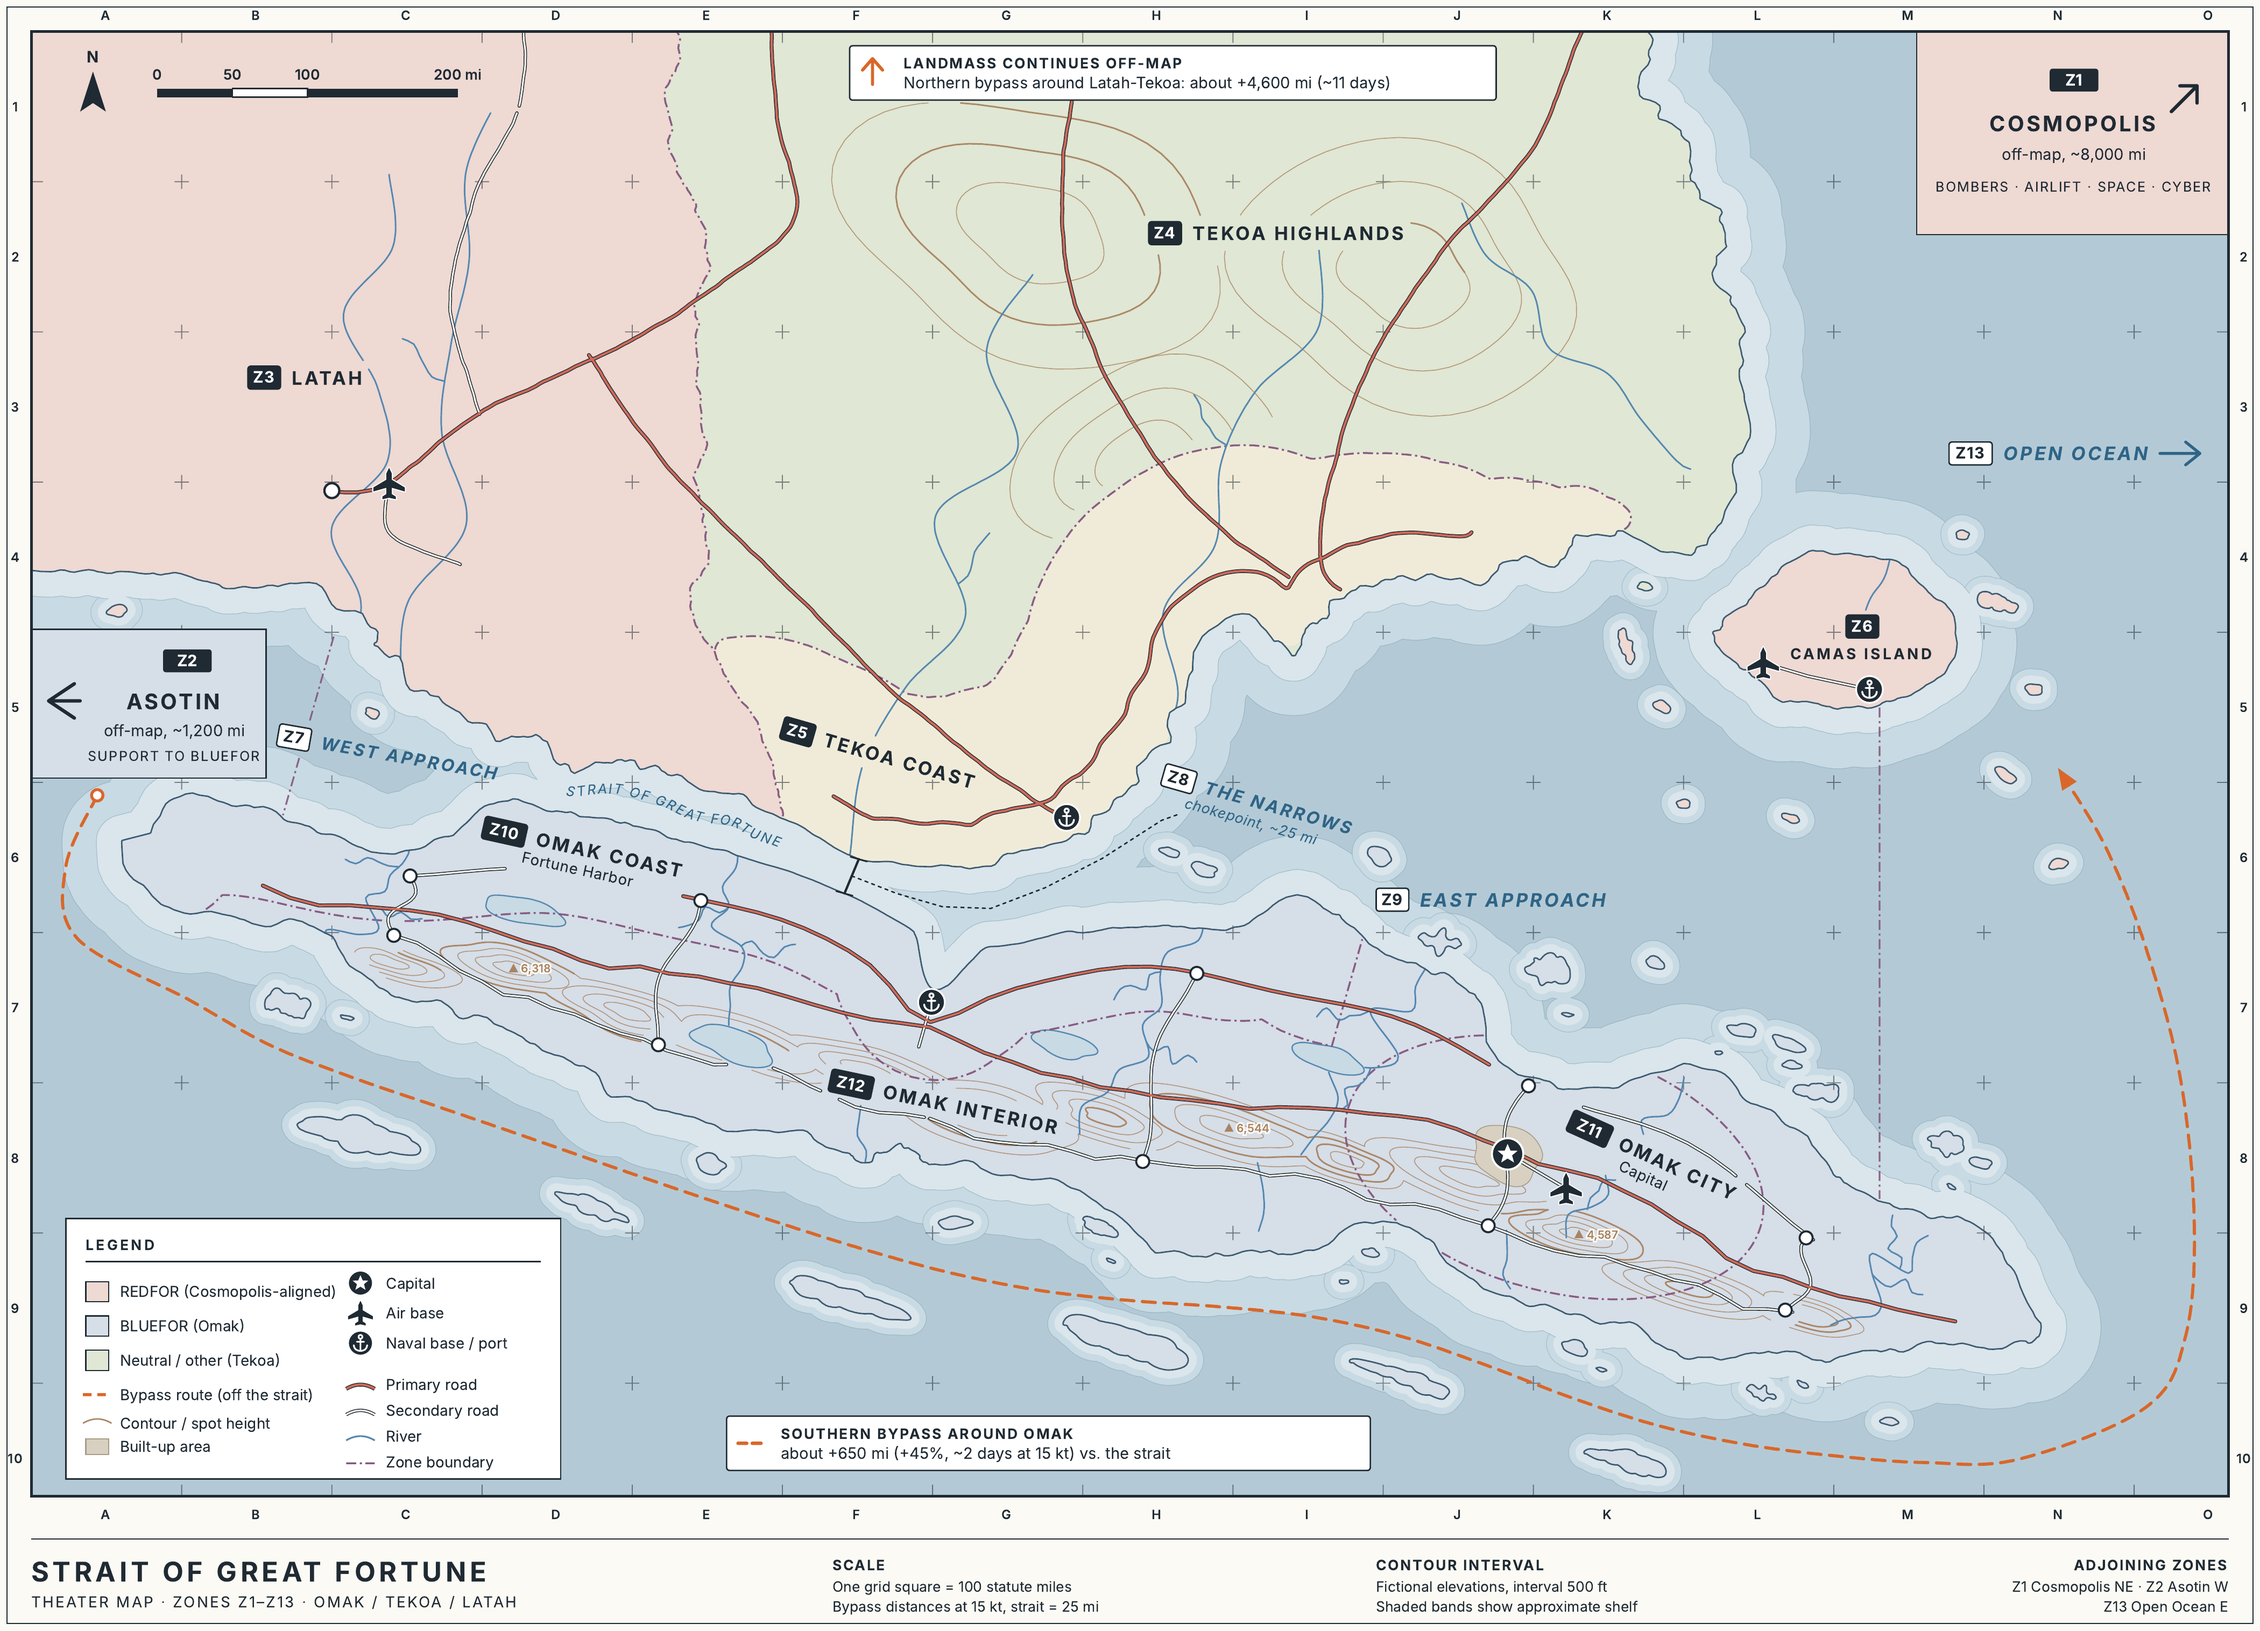
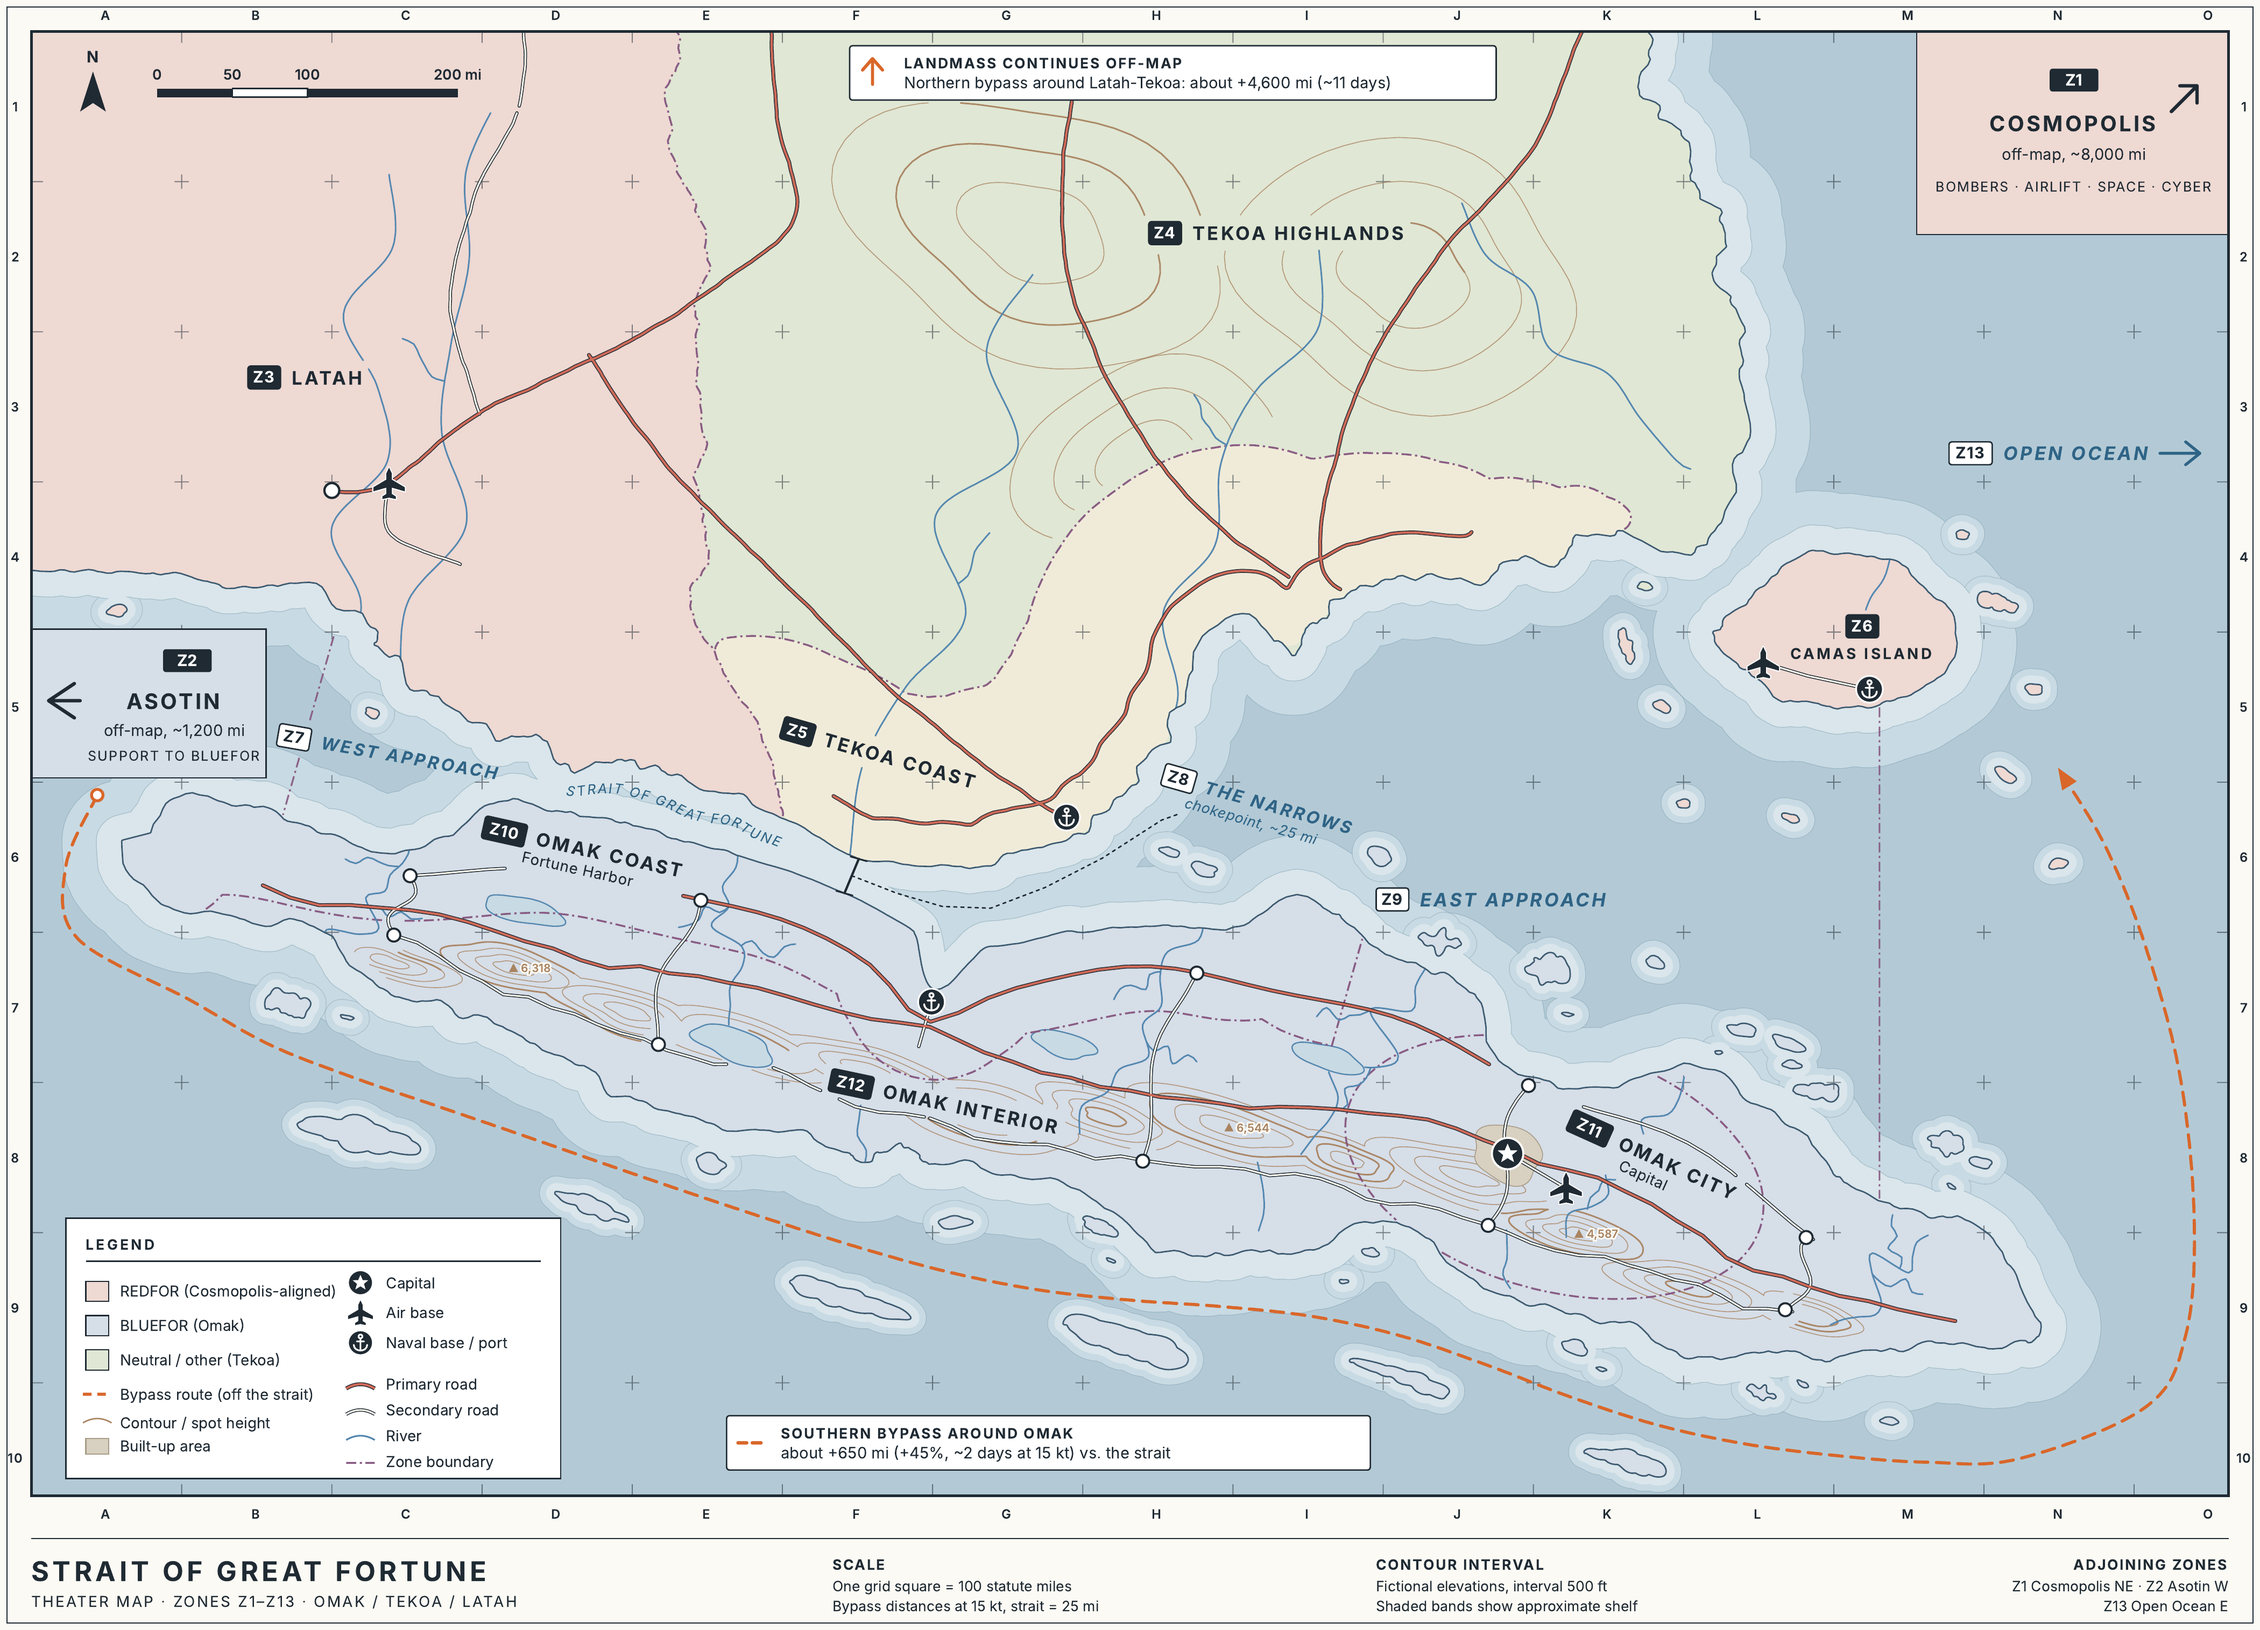
Map: print as 3 x 3 letter tiles (31.5 x 22.7 in), full sheet at the same scale
Keep the Scenario Brief's map image at 4200 px wide.

diff --git a/map/source/build_pdfs.py b/map/source/build_pdfs.py
@@ -10,7 +10,8 @@ SVG_W, SVG_H = 1580, 1140
 ASPECT = SVG_W / SVG_H
 
 # ---------------------------------------------------------------- full map, one page
-FULL_W_IN = 21.0
+N = 3                                        # letter tiles per side (see below)
+FULL_W_IN = N * 10.5                         # same scale as the assembled tiles
 FULL_H_IN = FULL_W_IN / ASPECT
 full_html = f"""<!doctype html><html><head><meta charset="utf-8"><style>
 @page {{ size: {FULL_W_IN}in {FULL_H_IN:.4f}in; margin: 0 }}
@@ -18,19 +19,30 @@ html, body {{ margin: 0; padding: 0; }}
 svg {{ display: block; width: {FULL_W_IN}in; height: {FULL_H_IN:.4f}in; }}
 </style></head><body>{svg}</body></html>"""
 
-# ---------------------------------------------------------------- 2 x 2 letter tiles
+# ---------------------------------------------------------------- N x N letter tiles
 # Each tile is laid out landscape, then turned onto a portrait page (top of the map
 # at the left edge), so the tiles print in the same orientation as the handouts.
 PW, PH = 1056.0, 816.0                       # the landscape tile, CSS px (96 dpi)
 WIN_W = 1008.0                               # 10.5 in trim window per tile (0.25 in side margins)
-S = WIN_W / (SVG_W / 2)                      # svg px -> css px
-WIN_H = (SVG_H / 2) * S                      # about 7.10 in
+S = WIN_W / (SVG_W / N)                      # svg px -> css px
+WIN_H = (SVG_H / N) * S                      # about 7.10 in
 X0 = (PW - WIN_W) / 2
 Y0 = (PH - WIN_H) / 2
+ASSEMBLED = f"{N * WIN_W / 96:.1f} x {N * WIN_H / 96:.1f} in"
 
-names = {(0, 0): "TILE 1  (top-left)", (0, 1): "TILE 2  (top-right)", (1, 0): "TILE 3  (bottom-left)", (1, 1): "TILE 4  (bottom-right)"}
-join = {(0, 0): "joins 2 on the right, 3 below", (0, 1): "joins 1 on the left, 4 below",
-        (1, 0): "joins 4 on the right, 1 above", (1, 1): "joins 3 on the left, 2 above"}
+ROW = ["top", "middle", "bottom"] if N == 3 else ["top", "bottom"]
+COL = ["left", "centre", "right"] if N == 3 else ["left", "right"]
+def num(r, c): return r * N + c + 1
+names, join = {}, {}
+for r in range(N):
+    for c in range(N):
+        pos = "centre" if (ROW[r], COL[c]) == ("middle", "centre") else f"{ROW[r]}-{COL[c]}"
+        names[(r, c)] = f"TILE {num(r, c)}  ({pos})"
+        nb = [f"{num(r, c - 1)} on the left"] if c > 0 else []
+        nb += [f"{num(r, c + 1)} on the right"] if c < N - 1 else []
+        nb += [f"{num(r - 1, c)} above"] if r > 0 else []
+        nb += [f"{num(r + 1, c)} below"] if r < N - 1 else []
+        join[(r, c)] = "joins " + ", ".join(nb)
 
 def marks():
     m = []
@@ -58,8 +70,8 @@ for (r, c), nm in names.items():
     <g stroke="#000" stroke-width="0.8" fill="none">{marks()}</g>
     <g font-family="Inter, Arial, sans-serif" fill="#222" font-size="10">
       <text x="{X0:.1f}" y="{Y0 - 26:.1f}" font-weight="700" letter-spacing="1">{nm}</text>
-      <text x="{X0 + 150:.1f}" y="{Y0 - 26:.1f}" fill="#555">{join[(r, c)]}</text>
-      <text x="{X0:.1f}" y="{Y0 + WIN_H + 34:.1f}" fill="#555">Trim to the corner marks and butt the four tiles edge to edge. Assembled map is 21 x 15.2 in.</text>
+      <text x="{X0 + 170:.1f}" y="{Y0 - 26:.1f}" fill="#555">{join[(r, c)]}</text>
+      <text x="{X0:.1f}" y="{Y0 + WIN_H + 34:.1f}" fill="#555">Trim to the corner marks and butt the {N * N} tiles edge to edge. Assembled map is {ASSEMBLED}.</text>
     </g>
   </svg>
 </div></section>""")

diff --git a/handouts/PDF-BUILD-NOTES.md b/handouts/PDF-BUILD-NOTES.md
@@ -45,7 +45,7 @@ The outputs aren't in git. Rebuild them after cloning.
 
 ### 1.3 Printing changes (3 Nov 2026, later)
 
-- **Map tiles are portrait.** `map/source/build_pdfs.py` now turns each landscape tile onto a portrait letter page (the top of the map at the page's left edge), so the whole Print Packet prints in one orientation. Same scale, same 4 tiles, same trim marks. `map-full.pdf` is unchanged.
+- **Map tiles are portrait.** `map/source/build_pdfs.py` now turns each landscape tile onto a portrait letter page (the top of the map at the page's left edge), so the whole Print Packet prints in one orientation. Same trim marks. The tiles are now a 3 x 3 grid (9 pages, 31.5 x 22.7 in assembled), and `map-full.pdf` is drawn at the same scale.
 - **Less ink on paperwork.** Forms, worksheets, slips, logs, and table headers have no filled bars, tinted label columns, zebra stripes, or shaded blocks. A form's title is dark text between an accent rule and a dark rule. Quotes and cables keep their outline only. Colour stays on the game pieces: counters, map, cue cards, track board, and track markers.
 - **Track board in colour.** `track_colours()` in `tools/build_handouts.py` shades the cells: International Opinion runs from blue (−3, pro-Omak) through white to red (+3, pro-Cosmopolis); Domestic Will is a red ramp and Regime Stability a blue one (deeper = better for that side); Strait Traffic turns amber as it closes. Opinion uses the same blue and red as `tools/whitecell-clock.html`. A • marks each trigger value, with a one-paragraph key under the board.
 - **Spares in the Print Packet.** After both teams' forms come spares for either side: 3 pages of request slips (9 slips), 2 COA worksheets, 2 Cons worksheets, 2 secret COA slips, and one more placement form for each side. The cover lists them under "Spares, at the back".

diff --git a/map/README.md b/map/README.md
@@ -54,8 +54,8 @@ Key places (px and grid) are in `map_data.json` under `key_places`: Latah city a
 maps/                               built by tools/build_map.sh (not in git)
   strait_map_v10.svg                master vector map, 1580 x 1140 px
   strait_map_v10.png                2x raster of the same map
-  strait_map_v10_full.pdf           one page, 21 x 15.2 in
-  strait_map_v10_tiles_letter.pdf   4 letter pages (portrait, the map turned on the page) that butt together into the full map
+  strait_map_v10_full.pdf           one page, 31.5 x 22.7 in (the same scale as the assembled tiles)
+  strait_map_v10_tiles_letter.pdf   9 letter pages, 3 x 3 (portrait, the map turned on the page) that butt together into the full map
 data/
   map_data.json                     scale, lore numbers, zone table (centroids, bounding boxes, areas, grid cells), key places, bypass waypoints
   zones_px.geojson                  land zone polygons, islets and bypass line, in map pixels (see below)
